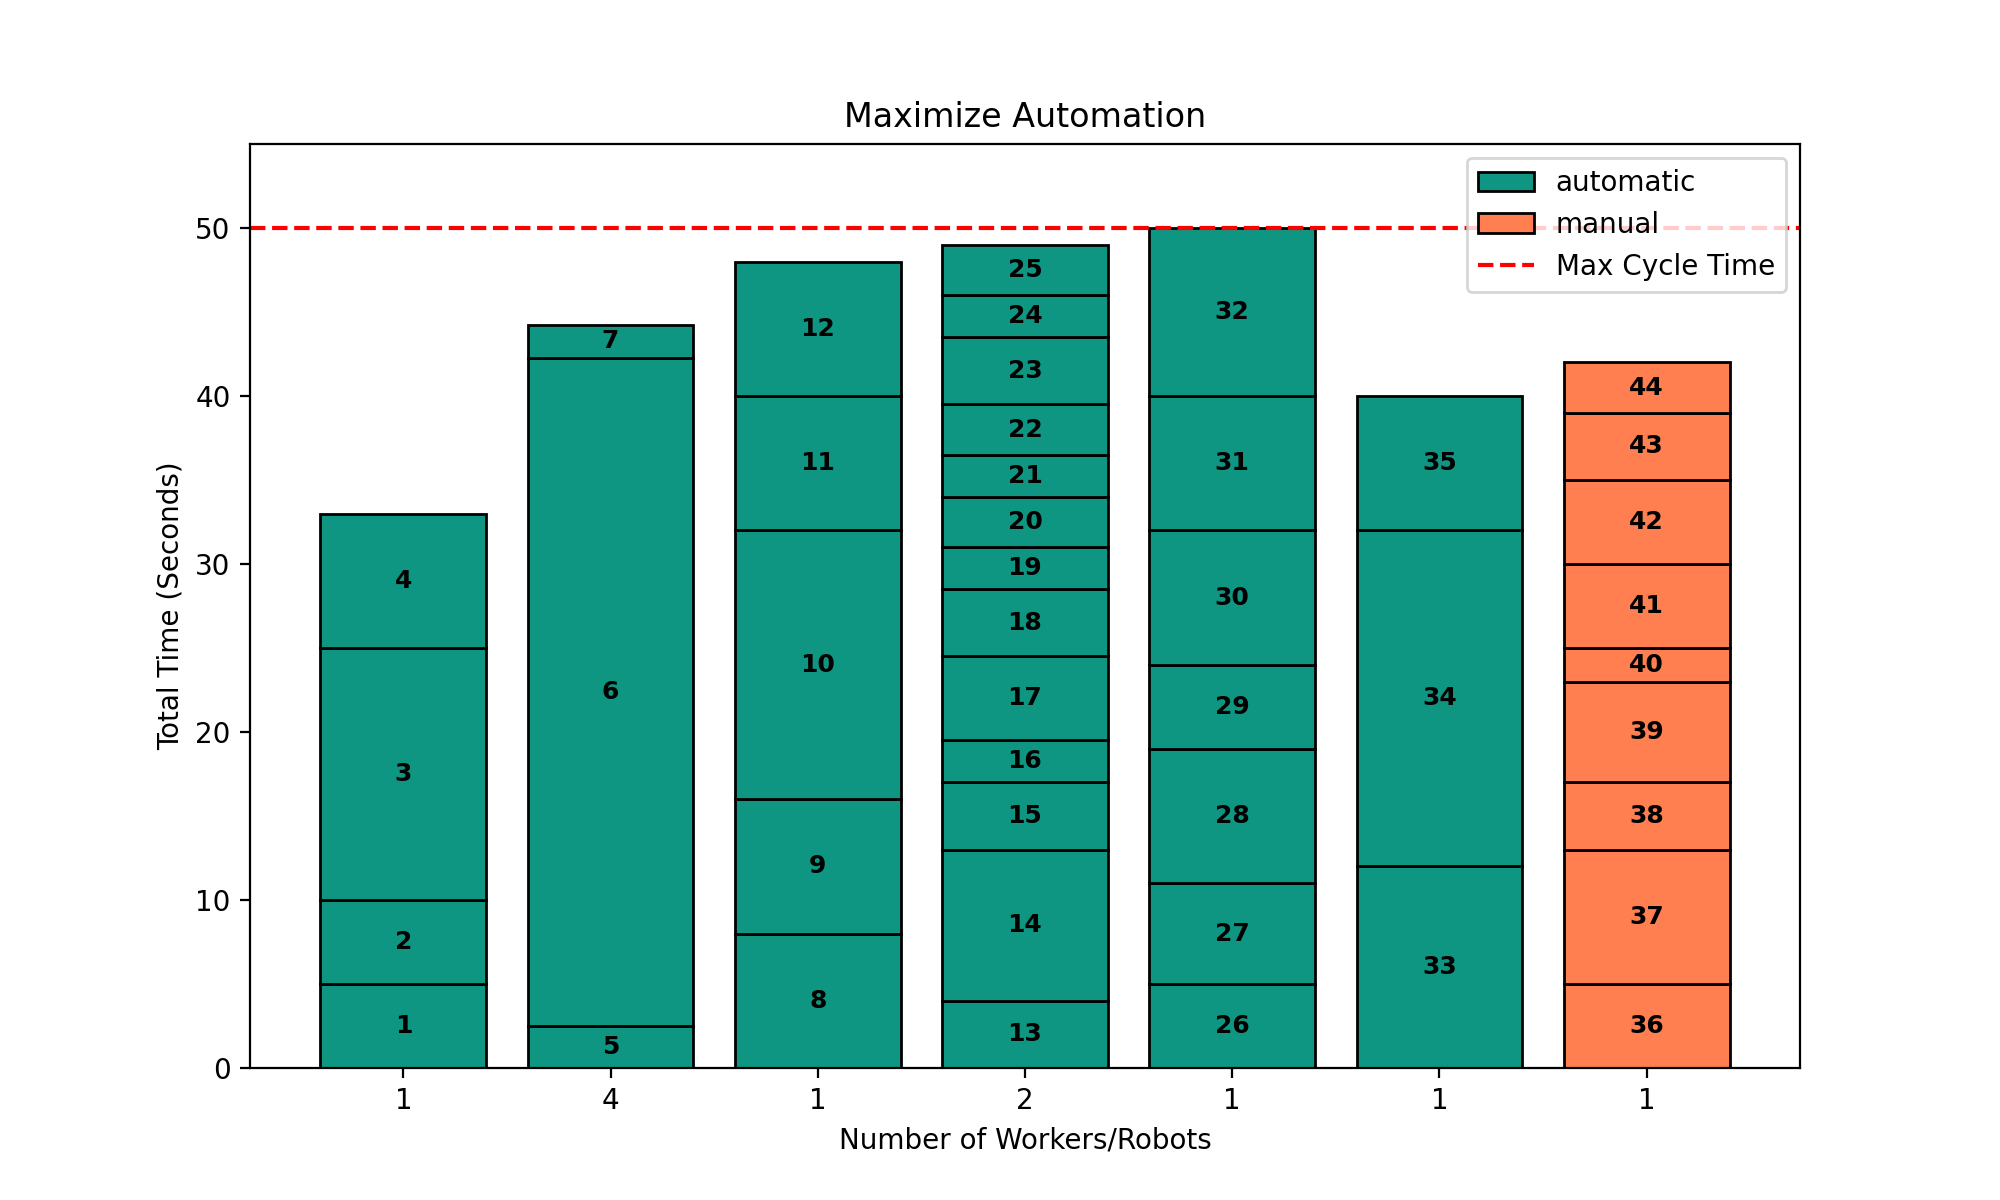
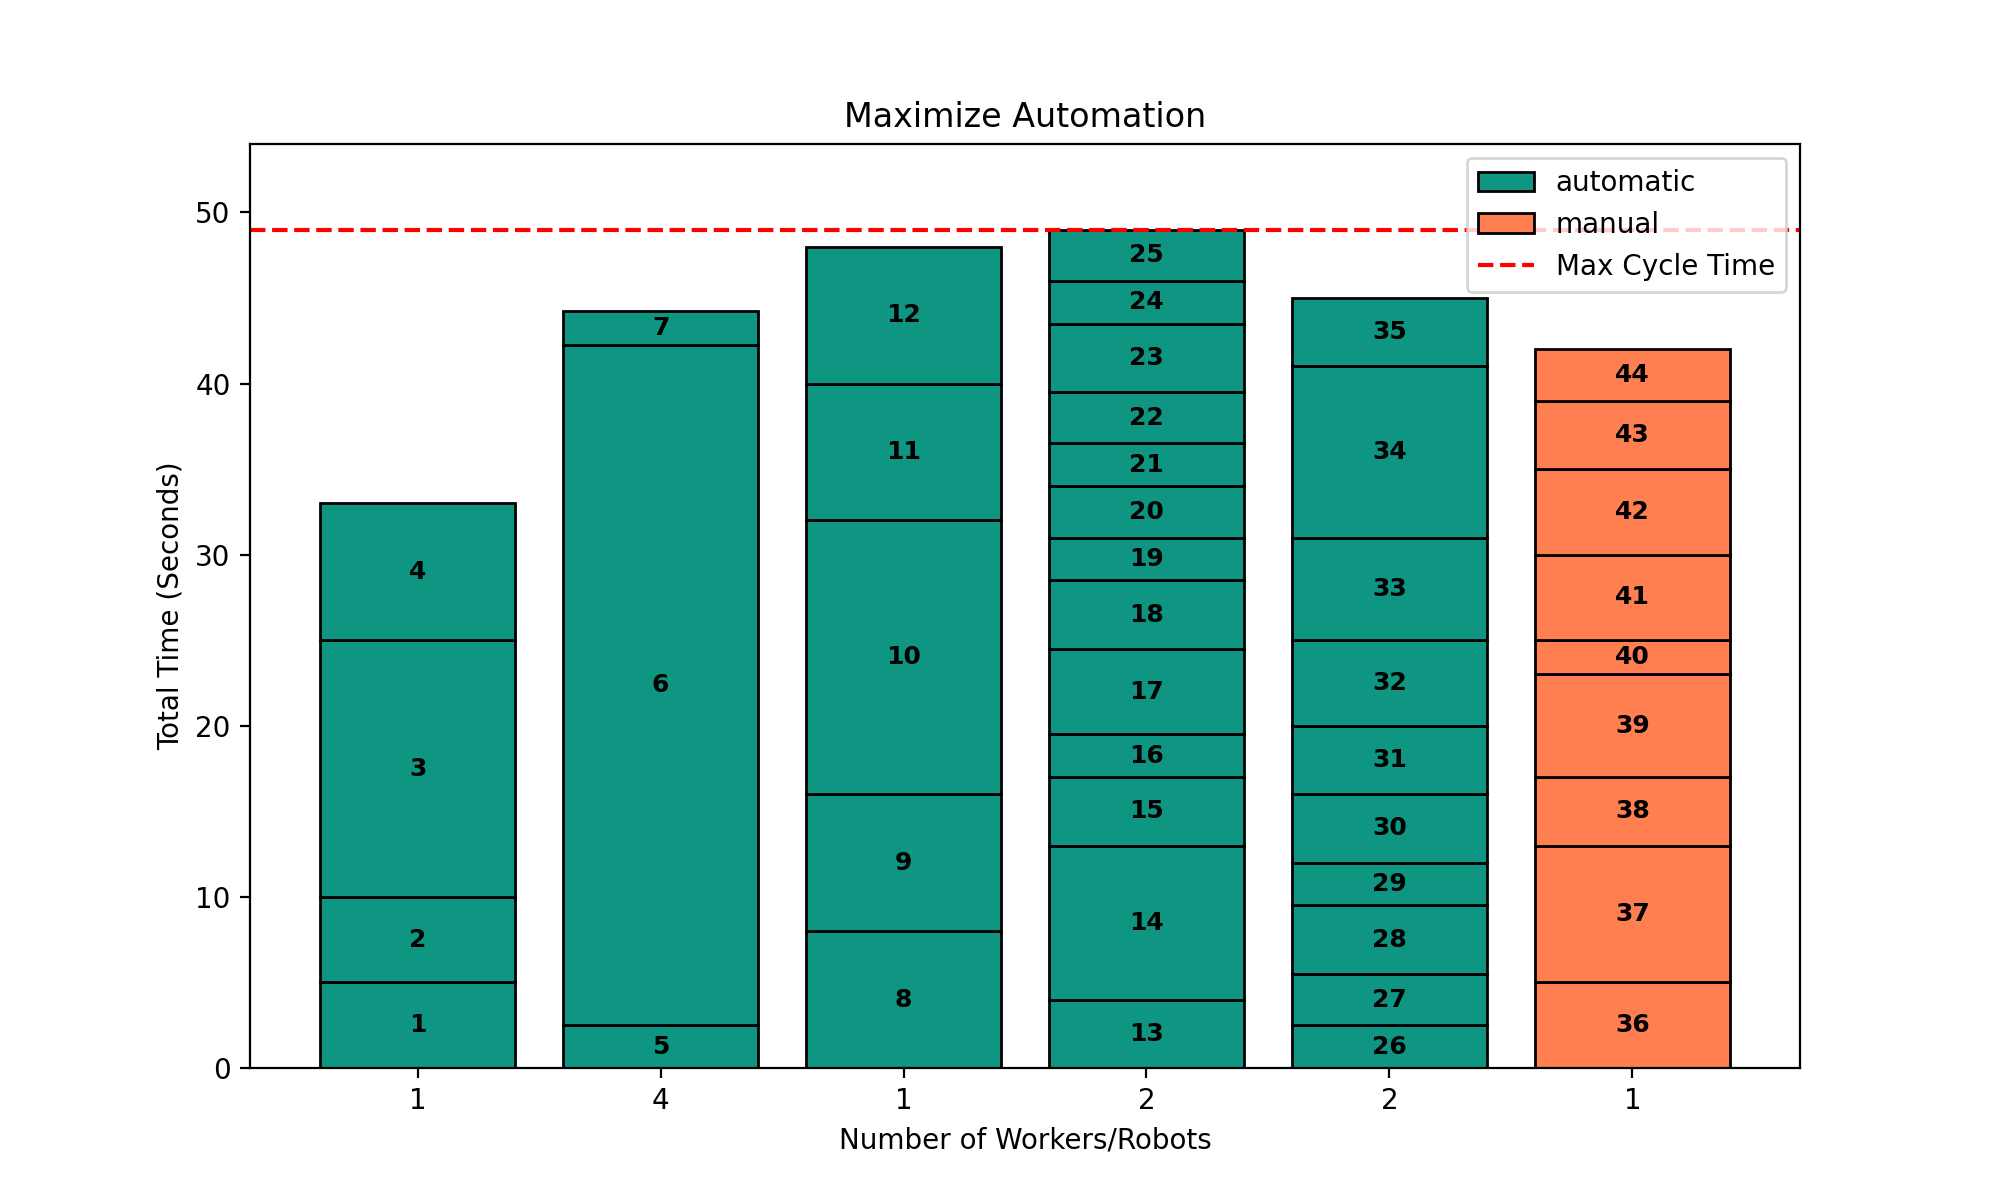
Fixed a big with the Layout of the graphs

diff --git a/frontend/report/report.js b/frontend/report/report.js
@@ -42,6 +42,7 @@ document.addEventListener("DOMContentLoaded", async function () {
 
             tableBody.appendChild(row);
         }
+        console.log(objectives);
         const langEn = document.getElementById("lang-en");
         const langCn = document.getElementById("lang-cn");
     
@@ -100,6 +101,8 @@ async function loadGraphs(objectives, taskDescriptions, taskTimes, stationResult
     } else if (graphCount === 3) {
         container.classList.add("three-graphs");
     } else if (graphCount === 4) {
+        container.classList.add("four-graphs");
+    } else if (graphCount === 5) {
         container.classList.add("four-graphs");
     }
 
@@ -183,7 +186,7 @@ function drawGraph(graphDiv, stations, taskTimes, taskDescriptions, objective, c
 
     // Beschriftung der x-Achse
     svg.append("text")
-        .attr("id", "x-axis-label")
+        .attr("class", "x-axis-label")
         .attr("x", width / 2)  // Zentriert auf der X-Achse
         .attr("y", height - margin.bottom + 30)  // Direkt unter der X-Achse
         .attr("text-anchor", "middle")  // Horizontale Ausrichtung
@@ -250,6 +253,8 @@ function drawGraph(graphDiv, stations, taskTimes, taskDescriptions, objective, c
     });
 
     svg.append("text")
+        .attr("class", "graph-title")
+        .attr("data-objective", objective)
         .attr("x", width / 2)
         .attr("y", margin.top / 2)
         .attr("text-anchor", "middle")
@@ -281,6 +286,7 @@ async function createObjectiveButtons(stationResults, taskDescriptions, taskTime
         button.classList.add("objective-button");
         button.id = key; // Key als ID setzen
         button.setAttribute("data-objective", key);
+        console.log(key);
         button.textContent = formatTitle(key);
 
         if (key === "Current_Status") {
@@ -418,7 +424,7 @@ function showTaskDescription(stationId, stations, parallel_stations, taskDescrip
     document.getElementById('station-title').innerText = `Station ${stationId}`;
 
     if (stationType === 'manual') {
-        document.getElementById('parallel-stations').innerText = `Number of Workers: ${parallel_stations}`;
+        document.getElementById('parallel-stations').innerText = `${content[globalLanguage].numberOfWorkers}: ${parallel_stations}`;
     } else if (stationType === 'automatic') {
         document.getElementById('parallel-stations').innerText = `${content[globalLanguage].numberOfRobots}: ${parallel_stations}`;
     }
@@ -470,6 +476,7 @@ content = {
         tooltipTask: "Task",
         tooltipTaskTime: "Task Time",
         tooltipSeconds: "seconds",
+        numberOfWorkers: "Number of Workers",
         numberOfRobots: "Number of Robots",
         cycleTime: "Cycle Time Requirement",
         manualCost: "Initial Cost for Opening a Manual Station",
@@ -480,10 +487,11 @@ content = {
         horizon: "Project horizon",
         xAxisLabel: "Number of Workers/Robots",
         objectives: {
+            Current_Status: "Current Status",
             Minimize_Total_Cost_of_Ownership: "Minimize Total Cost of Ownership",
             Minimize_Initial_Investment: "Minimize Initial Investment",
-            Minimize_Number_of_Stations: "Minimize Number of Stations",
-            Maximize_Degree_of_Automation: "Maximize Degree of Automation"
+            Minimize_Stations: "Minimize Stations",
+            Maximize_Automation: "Maximize Automation"
         }
     },
 
@@ -501,6 +509,7 @@ content = {
         tooltipTask: "任务",
         tooltipTaskTime: "任务时间",
         tooltipSeconds: "秒",
+        numberOfWorkers: "工人数量",
         numberOfRobots: "机器人数量",
         cycleTime: "周期时间要求",
         manualCost: "人工工位的初始成本",
@@ -511,10 +520,11 @@ content = {
         horizon: "项目周期",
         xAxisLabel: "工人/机器人数量",
         objectives: {
+            Current_Status: "当前状态",
             Minimize_Total_Cost_of_Ownership: "最小化总体拥有成本",
             Minimize_Initial_Investment: "最小化初始投资金额",
-            Minimize_Number_of_Stations: "最小化站点数量",
-            Maximize_Degree_of_Automation: "最大自动化程度"
+            Minimize_Stations: "尽量减少站点",
+            Maximize_Automation: "自动化最大化"
         }
     }
 }
@@ -541,7 +551,9 @@ function switchLanguage(language){
     document.getElementById("param-maintenance-label").innerHTML = `<strong>${content[language].maintenance}</strong>`;
     document.getElementById("param-horizon-label").innerHTML = `<strong>${content[language].horizon}</strong>`;
     
-    document.getElementById("x-axis-label").textContent = content[language].xAxisLabel;
+    document.querySelectorAll(".x-axis-label").forEach(el => {
+        el.textContent = content[language].xAxisLabel;
+    });
 
     document.querySelectorAll("td[data-objective]").forEach(td => {
         const key = td.getAttribute("data-objective");
@@ -551,6 +563,12 @@ function switchLanguage(language){
     document.querySelectorAll("button[data-objective]").forEach(button => {
         const key = button.getAttribute("data-objective");
         button.textContent = content[language].objectives[key];
-      });
+    });
 
+    document.querySelectorAll(".graph-title").forEach(title => {
+        const key = title.getAttribute("data-objective");
+        if (key && content[language].objectives[key]) {
+          title.textContent = content[language].objectives[key];
+        }
+    });
 }
